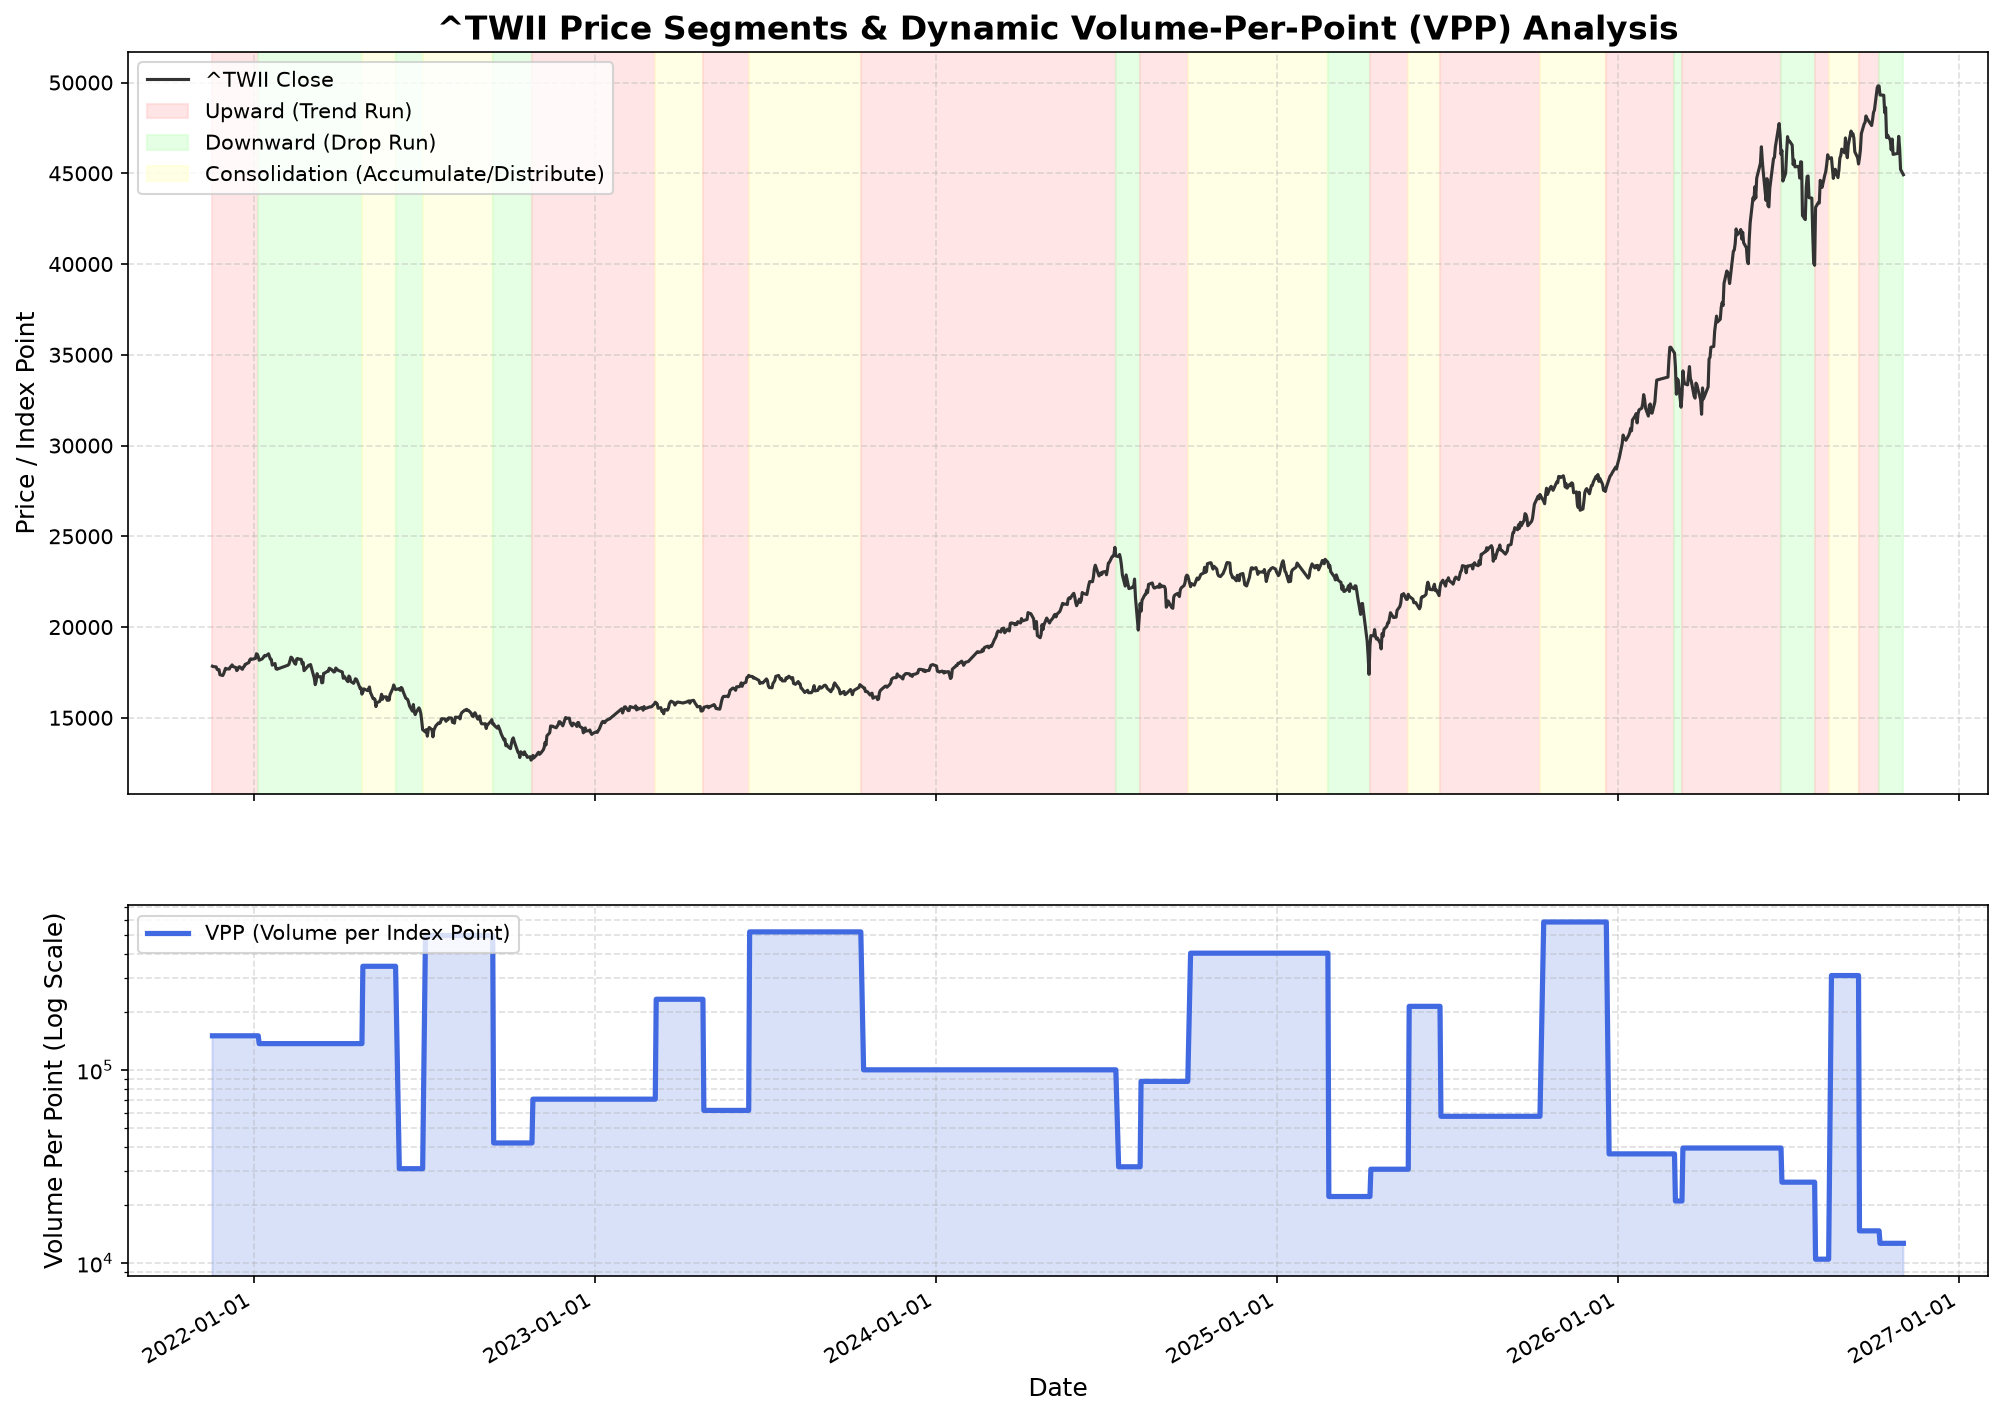
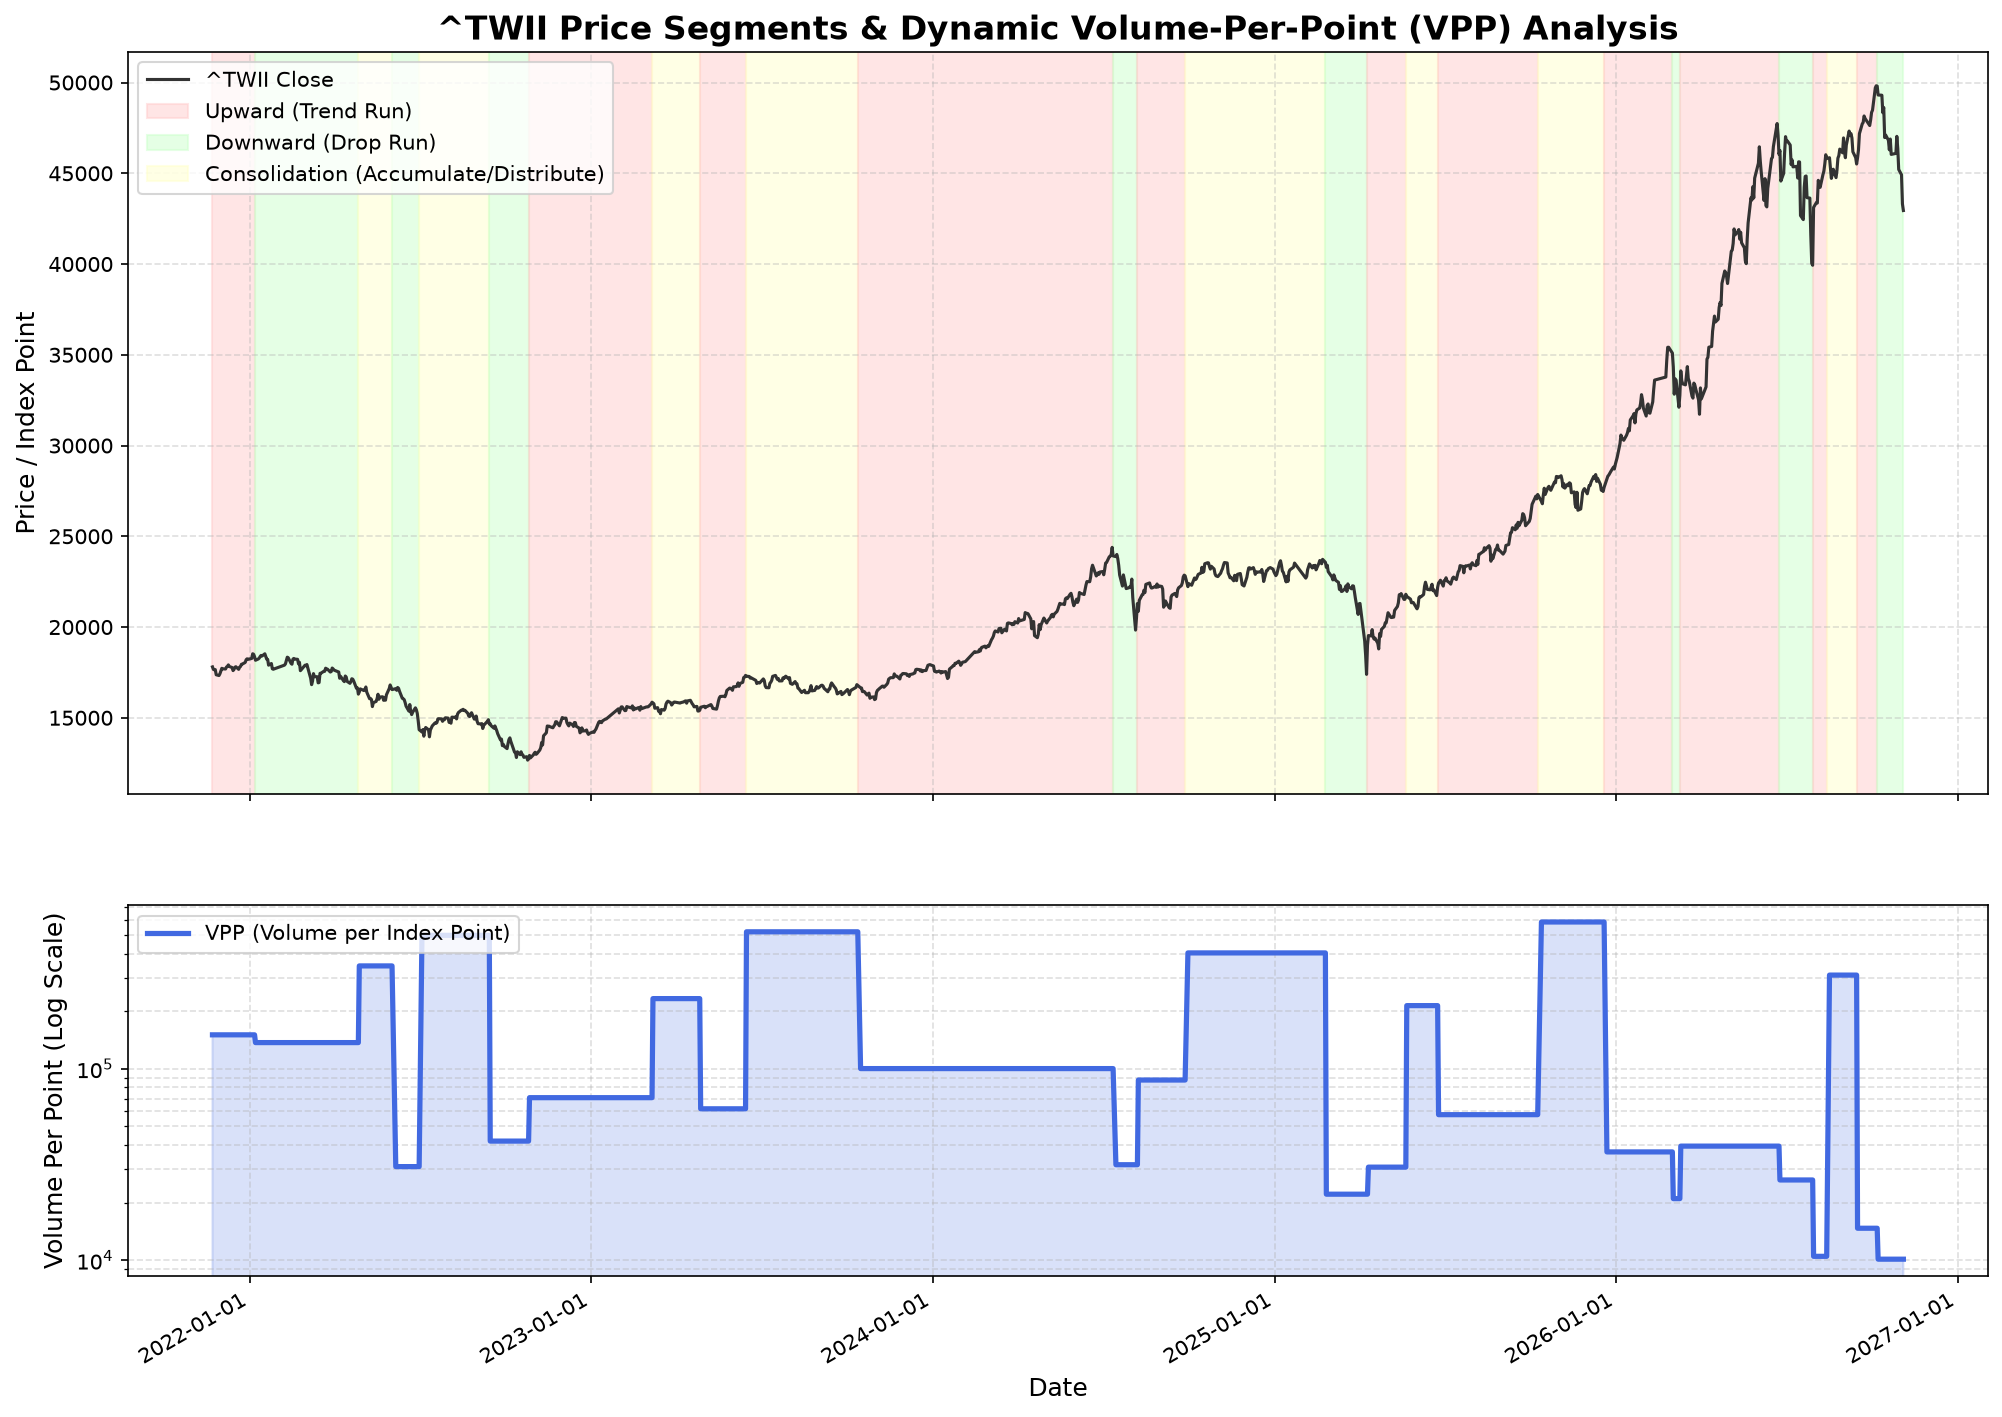
Auto-update momentum report & analysis (2026-11-04)

diff --git a/momentum.html b/momentum.html
@@ -57,7 +57,7 @@
                     <i class="fa-solid fa-bolt text-red-500"></i> 台股量價動能趨勢預估報告
                 </h1>
                 <p class="text-sm text-gray-400 mt-1">
-                    標的：加權指數 (^TWII) ｜ 模型：量價效率與波動對稱預估模型 ｜ 更新日期：2026-11-02
+                    標的：加權指數 (^TWII) ｜ 模型：量價效率與波動對稱預估模型 ｜ 更新日期：2026-11-04
                 </p>
             </div>
             <div class="flex items-center gap-3">
@@ -116,7 +116,7 @@
 ================================================================================
 【1. 量價效率分析 (Volume-Per-Point, VPP)】
   * 上漲波段: 平均移動 1 點需消耗 90,879 股之成交量
-  * 下跌波段: 平均移動 1 點需消耗 87,906 股之成交量
+  * 下跌波段: 平均移動 1 點需消耗 87,737 股之成交量
   * 盤整波段: 平均移動 1 點需消耗 1,376,197 股之成交量
   * 💡 學術結論：盤整段之 VPP 為上漲段的 15.1 倍、下跌段的 15.7 倍，極端證明了盤整區確實是高摩擦力的「籌碼吸納/主力出貨期」！
 --------------------------------------------------------------------------------
@@ -127,8 +127,8 @@
 --------------------------------------------------------------------------------
 【2-B. 波動等幅對稱分析 (二波段等幅規律 - 下跌趨勢)】
   * 樣本數: 14 次對接波段
-  * 平均等幅比率 (後波幅 / 前波幅): 165.93%
-  * 波動等幅對稱符合度 (漲跌幅在 80%~125% 內比例): 35.71%
+  * 平均等幅比率 (後波幅 / 前波幅): 168.06%
+  * 波動等幅對稱符合度 (漲跌幅在 80%~125% 內比例): 42.86%
 --------------------------------------------------------------------------------
 【3. 動能枯竭與接續判斷預測準確度】
   * 當波段動能（成交量）低於前波同類波段時，預測將進入「盤整或反轉」：
@@ -138,15 +138,15 @@
 
   [短線動能預警 (3% 領先燈號)]
   * 短線波段狀態: 短線拉回下跌
-  * 短線轉折日期: 2026-10-28 (基準價 47,060.46)
-  * 短線累計漲跌: -4.55%
-  * 短線持續天數: 3 天
+  * 短線轉折日期: 2026-11-03 (基準價 44,614.64)
+  * 短線累計漲跌: -3.73%
+  * 短線持續天數: 1 天
 --------------------------------------------------------------------------------
 【4. 波段機率落點與資金規劃分析 (Probabilistic Target &amp; Capital Planning)】
   * 目前波段型態: 【下跌趨勢波段】
   * 本波段起始點: 49,806.37 (2026-10-07)
   * 前一波下跌段幅: 13.27% (對稱基準點)
-  * 當前最新收盤價: 44,920.14 (目前跌幅: 9.81%, 目前對稱比率: 73.93%)
+  * 當前最新收盤價: 42,948.91 (目前跌幅: 13.77%, 目前對稱比率: 103.77%)
 
   * 💡 歷史波段對稱性機率落點與勝率列表 (Win Rate Targets):
     -----------------------------------------------------------------------------------------------
@@ -155,9 +155,9 @@
     100%                 | 0.3389          | 4.50            % | 47,566.23             | 🔴 已達成
     90%                  | 0.3418          | 4.54            % | 47,547.54             | 🔴 已達成
     80%                  | 0.5374          | 7.13            % | 46,254.78             | 🔴 已達成
-    70%                  | 0.8328          | 11.05           % | 44,301.96             | ⚪ 未達成
-    60%                  | 0.9504          | 12.61           % | 43,524.89             | ⚪ 未達成
-    50%                  | 1.0245          | 13.60           % | 43,034.87             | ⚪ 未達成
+    70%                  | 0.9504          | 12.61           % | 43,524.89             | 🔴 已達成
+    60%                  | 0.9858          | 13.08           % | 43,291.13             | 🔴 已達成
+    50%                  | 1.0377          | 13.77           % | 42,948.03             | ⚪ 未達成
     40%                  | 1.1877          | 15.76           % | 41,956.35             | ⚪ 未達成
     30%                  | 1.7673          | 23.45           % | 38,125.51             | ⚪ 未達成
     20%                  | 2.0045          | 26.60           % | 36,557.81             | ⚪ 未達成
